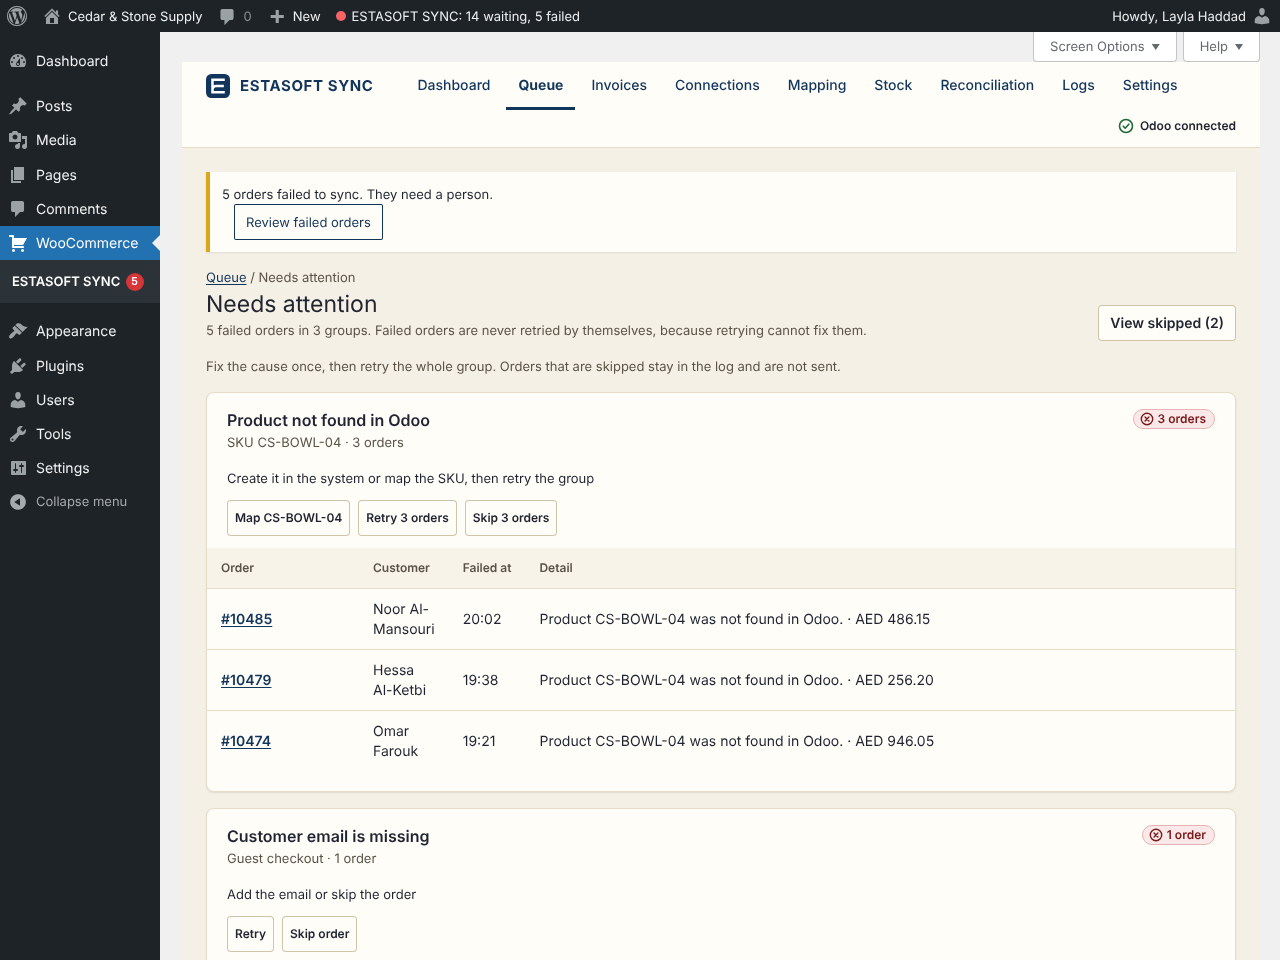
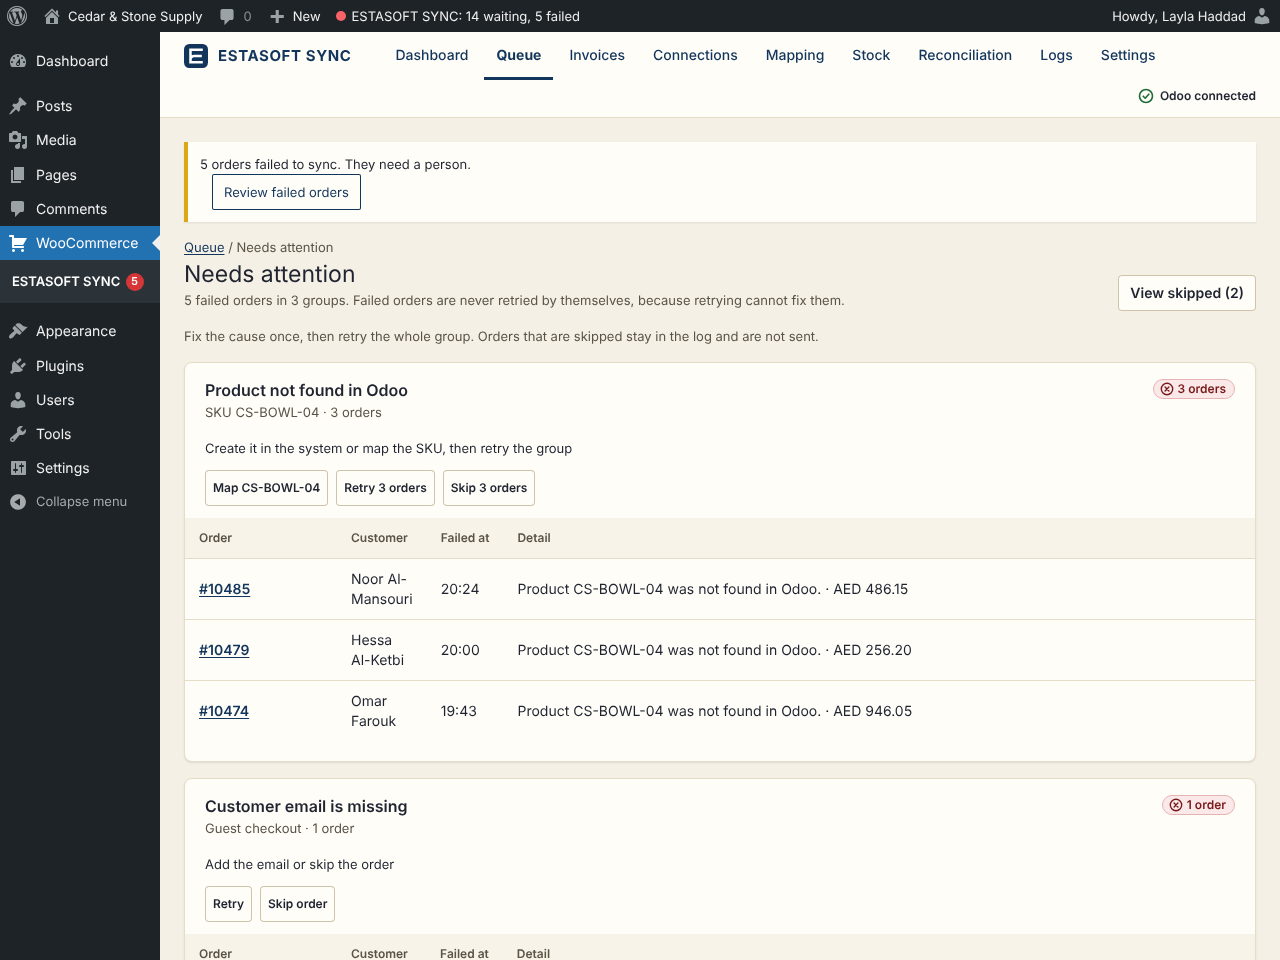
Prepare the 0.1.0 submission: retaken screenshots, WooCommerce 11.2 in the header, release notes and the submit-tonight page

diff --git a/estasoft-erp-crm-sync-engine.php b/estasoft-erp-crm-sync-engine.php
@@ -14,7 +14,7 @@
  * Text Domain:       estasoft-erp-crm-sync-engine
  * Domain Path:       /languages
  * WC requires at least: 8.2
- * WC tested up to:   9.4
+ * WC tested up to:   11.2
  *
  * @package Estasoft\SyncEngine
  */

diff --git a/docs/release/CHECKLIST.md b/docs/release/CHECKLIST.md
@@ -4,14 +4,14 @@ Steps in order. **Who** says whether tooling does it (and where) or the owner ha
 evidence named in it exists. The short list of what only the owner can do is [OWNER-ACTIONS.md](OWNER-ACTIONS.md).
 
 Legend: **Tooling** = a script or CI job in this repository does it. **Owner** = a person with the right account
-or authority has to do it. **Done** = already true on the day this file was last checked (2 Nov 2026).
+or authority has to do it. **Done** = already true on the day this file was last checked (6 Nov 2026).
 
 ## A. Repository set-up (once)
 
 | # | Step | Who | Status |
 | --- | --- | --- | --- |
 | A1 | The project documents are in the repository: `docs/spec/phase1-spec.md`, `docs/spec/review-2-changes.md`, `docs/DECISIONS.md`. `php bin/check-docs.php` checks the links and the index. | Owner / lead | **Done** |
-| A2 | Make the GitHub repository public (the readme's source-code link, guideline 4, needs it). | Owner | Open |
+| A2 | Make the GitHub repository public (the readme's source-code link, guideline 4, needs it). | Owner | **Done** |
 | A3 | Settings > Code security: turn on **private vulnerability reporting** (SECURITY.md and the issue-template links depend on it). | Owner | Open |
 | A4 | Settings > Environments: create **`wordpress-org`**, add the owner as **required reviewer** (this is the manual approval), and store **`SVN_USERNAME`** and **`SVN_PASSWORD`** as secrets of that environment. Use the WordPress.org account that is a committer of the plugin. | Owner | Open |
 | A5 | Settings > Branches: protect `main`, require the status check **CI passed** (the `ci-ok` job) and a pull request review. | Owner | Open |
@@ -40,7 +40,7 @@ or authority has to do it. **Done** = already true on the day this file was last
 | C2 | Try the built plugin on **WordPress 6.4** (the minimum) and the latest 7.x, PHP 8.1 and 8.4, with the real WooCommerce, HPOS on and off, with the classic and the block checkout. The smoke test proves the PHP side against a WooCommerce stand-in, and that the app's script handles exist on 6.4.3; the admin app runs at run time with the `@wordpress/*` packages WordPress ships, which on 6.4 are older than the ones it was compiled against, so open every admin screen on 6.4. | Owner / QA | Open |
 | C3 | Admin screens with a screen reader, at 200% zoom, on a phone and a tablet, in each admin colour scheme (the design status lists these as not checked). | Owner / QA | Open |
 | C4 | Re-read `readme.txt` (description, features, FAQ, External services) against the finished build: every sentence must be true. The External services entries are generated, so check the introduction and the links: open each address (the ones marked "not confirmed" at the end of [EXTERNAL-SERVICES.md](EXTERNAL-SERVICES.md) first). | Owner | Open |
-| C5 | Confirm **Tested up to** (now 7.1) is the current WordPress release the day you submit, and that the plugin header's `WC tested up to` is a current WooCommerce version. | Owner | Open |
+| C5 | Confirm **Tested up to** (now 7.1) is the current WordPress release the day you submit, and that the plugin header's `WC tested up to` (now 11.2) is a current WooCommerce version. | Owner | Checked 6 Nov 2026 (WordPress 7.1, WooCommerce 11.2) |
 | C6 | `php bin/check-readme.php` passes (checks the rules offline), then paste `readme.txt` into the **official validator**: <https://wordpress.org/plugins/developers/readme-validator/>. | Tooling, then Owner | Offline check **Done**; validator open |
 | C7 | **Licences.** The licences of the packages that are in the production dependency tree of `build/` are listed in [GUIDELINES-AUDIT.md](GUIDELINES-AUDIT.md) (guideline 1): all GPL-compatible, and none is inside the bundle. Confirm that Estasoft holds the rights to the icon and banner. | Owner | Licences **Done**; rights open |
 | C8 | **Source and bundle.** `build/index.asset.php` lists WordPress script handles for React and the `@wordpress` packages; the bundle contains no copy of React or jQuery and none of the mock layer (CI checks the mock, the smoke test checks the handles). | Tooling | **Done** |
@@ -54,7 +54,7 @@ or authority has to do it. **Done** = already true on the day this file was last
 | # | Step | Who | Status |
 | --- | --- | --- | --- |
 | D1 | Icon 128 and 256 px, banner 772 x 250 and 1544 x 500 px are in `.wordpress-org/`. | Tooling | **Done** |
-| D2 | Screenshots 1 to 6 are in `.wordpress-org/` (1280 wide PNG, sample shop; screenshot 3 retaken on 3 Nov 2026). Look at them once more against the final build ([ASSETS.md](ASSETS.md)). | Owner | Done |
+| D2 | Screenshots 1 to 6 are in `.wordpress-org/` (1280 wide PNG, sample shop, all retaken on 6 Nov 2026 from the final build). | Owner | **Done** ([ASSETS.md](ASSETS.md)) |
 | D3 | `php bin/check-readme.php --strict-assets` passes (it fails while any captioned screenshot is missing). | Tooling | **Done** |
 
 ## E. Version, tag and zip
@@ -62,7 +62,7 @@ or authority has to do it. **Done** = already true on the day this file was last
 | # | Step | Who | Status |
 | --- | --- | --- | --- |
 | E1 | For a version after 0.1.0: `bin/bump-version.sh <x.y.z>`, then write the real notes in `CHANGELOG.md` and `readme.txt` (changelog and upgrade notice). The placeholder text blocks the build on purpose. | Owner / lead | Per release |
-| E2 | For 0.1.0: replace `Unreleased` in the CHANGELOG heading with the release date. | Owner / lead | Open |
+| E2 | For 0.1.0: replace `Unreleased` in the CHANGELOG heading with the release date. | Owner / lead | **Done** (2026-11-06) |
 | E3 | `bin/build-zip.sh` passes locally: versions agree, readme valid, only runtime files in the zip, every PHP file guarded, header and text domain correct. Inspect the printed file list and size. | Tooling | **Done**: a full build ran as part of the smoke test ([SMOKE-TEST.md](SMOKE-TEST.md) gives the file count, size and SHA-256) |
 | E4 | Merge to `main`, wait for CI, then create the tag **`v<version>`** on that commit. The release workflow refuses a tag that is not on `main` or that differs from the plugin version. | Owner | Open |
 
@@ -77,7 +77,7 @@ or authority has to do it. **Done** = already true on the day this file was last
 | F5 | Check the plugin page: name, banner at both sizes, icon, screenshots and captions, tabs, changelog, upgrade notice, "Requires Plugins" box. Install it from the directory on a clean site with WooCommerce and run the setup. | Owner | After deploy |
 | F6 | Watch the support forum. Fix cycle: change, `bin/check-all.sh`, bump, tag, approve. Avoid frequent commits to SVN (guideline 14): one deploy per release. | Owner | Ongoing |
 
-## What was verified when this file was last checked (2 Nov 2026)
+## What was verified when this file was last checked (6 Nov 2026)
 
 - `php bin/red-flags.php`, `php bin/check-php-version.php`, `php bin/check-readme.php --strict-assets`,
   `php bin/check-docs.php`, `bash bin/check-dist-parity.sh`, the three `--check` generators, and `actionlint` on the
@@ -85,5 +85,7 @@ or authority has to do it. **Done** = already true on the day this file was last
   Composer and in CI; results in [PLUGIN-CHECK-NOTES.md](PLUGIN-CHECK-NOTES.md).
 - `bash bin/smoke-install.sh`: the release zip was built with `npm ci` and `npm run build`, unpacked into a fresh
   WordPress 6.4.3 and exercised ([SMOKE-TEST.md](SMOKE-TEST.md)).
-- **Not verified here (no network and no GitHub):** any GitHub Actions run, the real Plugin Check, the readme
-  validator, the deployment, `composer install`, the real WooCommerce, and any vendor account.
+- GitHub Actions on `main`: CI, Plugin Check and `woocommerce-smoke.yml` (the real WooCommerce 11.2.2 on WordPress
+  7.1.4, posts and HPOS storage).
+- **Not verified:** the readme validator on wordpress.org, the deployment, a real checkout in a browser, and any
+  vendor account.

diff --git a/docs/release/SUBMIT-TONIGHT.md b/docs/release/SUBMIT-TONIGHT.md
@@ -1,0 +1,54 @@
+# Submit tonight
+
+The short version of [OWNER-ACTIONS.md](OWNER-ACTIONS.md) for the evening of submission. Written 6 Nov 2026 for
+version 0.1.0. Everything that a script or a GitHub workflow can check has been checked; these are the steps that
+need the owner's accounts.
+
+## State of the build (6 Nov 2026)
+
+- `main` on GitHub is the source of the zip. CI (lint, PHPCS, PHPStan, unit and integration tests, admin app
+  checks, generated files, zip build), Plugin Check and the real-WooCommerce smoke test run on every push.
+- The plugin ships no logos: no vendor logo and no Estasoft logo image inside the zip. The WordPress.org icon and
+  banner are in `.wordpress-org/` and are not part of the zip.
+- Not tried: any connector against a live vendor account (the readme and the setup screen say so), and a real
+  checkout in a browser.
+
+## Before you upload (10 minutes)
+
+1. **Check the plugin name and slug.** WordPress.org builds the permalink from the plugin name, so it may offer
+   `estasoft-enterprise-erp-crm-sync-engine` rather than the text domain and folder name
+   `estasoft-erp-crm-sync-engine`. If the review email proposes the longer one, reply that you want
+   `estasoft-erp-crm-sync-engine` so the slug matches the text domain; if they insist on the other one, the text
+   domain and folder name must be changed to match before approval.
+2. **Check the account.** Sign in at <https://wordpress.org/> with the account that will own the plugin. Turn on
+   two-factor authentication (Profile > Account & Security). Check that `Contributors: estasofttechnologies` in
+   `readme.txt` is exactly that account's username; change `readme.txt` and rebuild the zip if it is not.
+3. **Read the zip's readme once in the validator.** Paste `readme.txt` into
+   <https://wordpress.org/plugins/developers/readme-validator/> and read the result. The offline check
+   (`php bin/check-readme.php --strict-assets`) already passes, so anything new the validator reports is worth a look.
+
+## Upload
+
+4. Open <https://wordpress.org/plugins/developers/add/>, upload the file
+   `estasoft-erp-crm-sync-engine-0.1.0.zip`, tick the confirmations and submit.
+5. An automatic check runs at once and a person from the Plugin Review team writes to the account's email address
+   (not at once). Reply in the same thread. The text to paste is in [SUBMISSION-NOTES.md](SUBMISSION-NOTES.md),
+   sections 1 to 8 for the description and section 9 for how a reviewer can test it without a paid ERP.
+6. Do **not** push the tag `v0.1.0` yet. The release workflow publishes to WordPress.org subversion and needs the
+   `wordpress-org` environment (required reviewer, secrets `SVN_USERNAME` and `SVN_PASSWORD`), which can only exist
+   after approval. Create it then ([CHECKLIST.md](CHECKLIST.md), A4 and F4).
+
+## Do these next, any day this week
+
+- Settings > Code security: turn on **private vulnerability reporting** (SECURITY.md and the issue templates link to
+  it) and protect `main` with the `CI passed` check.
+- Try the plugin on a real shop: a real checkout (classic and block), every admin screen on WordPress 6.4, a screen
+  reader and 200% zoom.
+- Live-test the connectors your first customers use (Odoo first, see SUBMISSION-NOTES section 9, path B), then set
+  `verified: true` for each in `docs/connectors/<id>.md`.
+
+## If the review team asks for changes
+
+Fix on a branch, run `bash bin/check-all.sh`, merge to `main`, rebuild with `bash bin/build-zip.sh` and upload the
+new zip as they instruct. Keep the version at 0.1.0 unless they ask for a bump; if you bump, use
+`bin/bump-version.sh` so the header, constant, readme and package agree.

diff --git a/docs/release/OWNER-ACTIONS.md b/docs/release/OWNER-ACTIONS.md
@@ -1,12 +1,12 @@
 # What only the owner can do
 
 Everything else is in the repository and checked by a script. The full ordered list is
-[CHECKLIST.md](CHECKLIST.md); this page is the short version. Written 2 Nov 2026.
+[CHECKLIST.md](CHECKLIST.md); this page is the short version. Updated 6 Nov 2026. For the evening of submission use [SUBMIT-TONIGHT.md](SUBMIT-TONIGHT.md).
 
 ## Before the first submission
 
-1. **Make the GitHub repository public.** The readme's source-code link (guideline 4) is dead until it is. Turn on
-   private vulnerability reporting (Settings > Code security) and protect `main` with the `CI passed` check.
+1. **GitHub.** The repository is public (done), so the readme's source-code link works. Still to do: turn on private
+   vulnerability reporting (Settings > Code security) and protect `main` with the `CI passed` check.
 2. **Check that the slug is free.** Open <https://wordpress.org/plugins/estasoft-erp-crm-sync-engine/>: "not found"
    means free. Search the directory for plugins with a similar name.
 3. **Run the gate once on GitHub and read it.** Push, wait for CI, then read the job summaries of **Plugin Check**
@@ -14,8 +14,8 @@ Everything else is in the repository and checked by a script. The full ordered l
    of the **smoke** job. Commit `composer.lock` and `package-lock.json` first. When the smoke job has passed once,
    add it to the `needs` of the `ci-ok` job.
 4. **Confirm the dates and versions on the day:** `Tested up to` in `readme.txt` is the current WordPress release,
-   `WC tested up to` in the plugin header is a current WooCommerce, and the heading `## [0.1.0] - Unreleased` in
-   `CHANGELOG.md` gets the release date.
+   `WC tested up to` in the plugin header (now 11.2) is a current WooCommerce. The `CHANGELOG.md` heading already
+   carries the date 2026-11-06; change it if you submit on another day.
 5. **Paste `readme.txt` into the official validator**
    (<https://wordpress.org/plugins/developers/readme-validator/>) and read the External services section as a
    reviewer would.
@@ -26,11 +26,12 @@ Everything else is in the repository and checked by a script. The full ordered l
 7. **Confirm the rights to the artwork:** Estasoft holds the rights to the icon and banner in `.wordpress-org/`
    (they are not in the zip). Real vendor logos are used **only with each vendor's written permission**; the plugin
    ships none.
-8. **Look at the screenshots again** against the final screens (screenshot 3, Choose a system, was retaken on
-   3 Nov 2026; [ASSETS.md](ASSETS.md)).
-9. **Test on a real shop**, because the install test used a WooCommerce stand-in: WordPress 6.4 and the latest 7.x,
-   PHP 8.1 and 8.4, HPOS on and off, classic and block checkout, every admin screen on 6.4 (older
-   `@wordpress/*` packages), a screen reader, 200% zoom and a phone.
+8. **Look at the screenshots again** against the final screens (all six were retaken on 6 Nov 2026 from the final
+   build, without vendor logos; [ASSETS.md](ASSETS.md)).
+9. **Test on a real shop.** Done in CI: the real WooCommerce 11.2.2 on WordPress 7.1.4 with programmatic orders and
+   refunds, posts storage and HPOS (`woocommerce-smoke.yml`). Not done: a real checkout in the browser (classic and
+   block), every admin screen on WordPress 6.4 (older `@wordpress/*` packages), PHP 8.1 and 8.4 on a real shop,
+   a screen reader, 200% zoom and a phone.
 10. **Create the translation template** once: `bin/make-pot.sh` needs WP-CLI; commit
     `languages/estasoft-erp-crm-sync-engine.pot`.
 

diff --git a/docs/release/ASSETS.md b/docs/release/ASSETS.md
@@ -34,14 +34,14 @@ Rules that WordPress.org enforces or reviewers check:
 | --- | --- |
 | `icon-128x128.png`, `icon-256x256.png` | A white "E" with a notch on a navy rounded square (the Estasoft mark). PNG with transparent corners. |
 | `banner-1544x500.png`, `banner-772x250.png` | Sand background on the left with the full official name in navy, the line "Keep WooCommerce in step with your ERP, accounting system or CRM. Checkout never waits.", and "Orders, customers, stock, tracking"; a navy panel on the right with an illustrative dashboard card (312 synced today, 14 waiting, 5 need a person, and a short list of orders with their states). The orders are invented (#10494 and so on): it is artwork, not a claim about real results. No vendor logo, no price. |
-| `screenshot-1.png` to `screenshot-6.png` | 1280 wide PNG (screenshot 3 is 1280 x 1160, 225 KB; the others 1280 x 960, 98 to 131 KB). Taken in a browser from the plugin inside WordPress 6.4.3 with the sample shop "Cedar & Stone Supply" (design board S03), default admin colours, the admin menu visible. The Connection card on screenshot 1 shows a sample address. |
+| `screenshot-1.png` to `screenshot-6.png` | 1280 wide PNG (screenshot 3 is 1280 x 1160, 249 KB; the others 1280 x 960, 156 to 210 KB). Taken in a browser from the plugin inside WordPress 6.4.3 with the sample shop "Cedar & Stone Supply" (design board S03), default admin colours, the admin menu visible. The Connection card on screenshot 1 shows a sample address. |
 
 Rights to the artwork: the icon is the Estasoft E from the owner's own brand file; the owner confirms that Estasoft
 holds the rights to the icon and banner before submission ([OWNER-ACTIONS.md](OWNER-ACTIONS.md), item 7).
 
 ## Screenshots and their captions
 
-The captions in `readme.txt` match these files (looked at on 2 Nov 2026).
+The captions in `readme.txt` match these files (retaken and looked at on 6 Nov 2026).
 
 | No. | Caption in `readme.txt` | What the image shows |
 | --- | --- | --- |
@@ -52,9 +52,8 @@ The captions in `readme.txt` match these files (looked at on 2 Nov 2026).
 | 5 | Reconciliation: a nightly check lists every order that differs between WooCommerce and your system, ready to repair. | Reconciliation: last check, compared, match and differences, and three differences with Repair and Ignore buttons. |
 | 6 | Settings: email notifications, performance, access and a readiness check, with no usage tracking. | Settings, Notifications tab, with the line "This plugin has no usage tracking and talks only to the system you connect, and only after you set it up." |
 
-Screenshot 3 was retaken on 3 Nov 2026 from the build with the 34-system Choose a system screen (the method line, the
-"Not yet tested" tag and the reason on a system that cannot be selected). The others still match the screens; look at
-them once more against the final build.
+All six screenshots were retaken on 6 Nov 2026 from the final build: full width, no WordPress Help or Screen Options
+buttons, no vendor logos (the plugin ships none).
 
 If a final screen differs from its caption, change the caption in `readme.txt` (keep the numbering) rather than the
 other way round, then run `php bin/check-readme.php --strict-assets`.

diff --git a/docs/release/SUBMISSION-NOTES.md b/docs/release/SUBMISSION-NOTES.md
@@ -3,7 +3,7 @@
 Text the owner pastes into the WordPress.org submission and into replies to the Plugin Review team. Each block
 between the lines is ready to paste. Check every statement against the finished build first (see
 [CHECKLIST.md](CHECKLIST.md), step C4), and change this file when the plugin changes. Last checked against the tree
-on 2 Nov 2026 (version 0.1.0).
+on 6 Nov 2026 (version 0.1.0).
 
 ## 1. Summary
 
@@ -88,6 +88,10 @@ to use Shadow mode first.
   `Idempotency-Key` header.
 - **Shadow mode.** The same process runs without changing anything in either system, so a merchant can compare the
   result before going live.
+- **What leaves the shop is the merchant's choice.** In setup the merchant says whether orders are sent at all, when
+  (when placed, when paid or cash on delivery, or when completed) and whether refunds are sent; the order hooks
+  follow those answers. The same step can switch stock and tracking read-back on at go-live. The setup screen says
+  which other answers are only saved for now.
 - **No tax signing.** The plugin never signs, issues or certifies a tax invoice. The connected system does that.
 
 ---
@@ -172,7 +176,8 @@ There is no demo mode and no sample connector. A reviewer needs no paid ERP. Pic
 
 ---
 
-1. Use WordPress 6.4 or later, PHP 8.1 or later (sodium is part of PHP), and WooCommerce active. Nothing has to be added
+1. Use WordPress 6.4 or later (the current WooCommerce itself needs WordPress 7.0 or later, so use 7.x with the newest
+   WooCommerce), PHP 8.1 or later (sodium is part of PHP), and WooCommerce active. Nothing has to be added
    to `wp-config.php`: the WordPress security keys encrypt the credentials. To try the dedicated key, add
    `define( 'ESTASOFT_SYNC_KEY', 'any long random string of 32 or more characters' );`
 2. Activate the plugin. Open WooCommerce > ESTASOFT SYNC: the first-run dashboard, the readiness check
@@ -246,7 +251,9 @@ smoke test for its system. The plugin's own tests run each connector against a f
 - **The plugin is English only.** Strings use the text domain `estasoft-erp-crm-sync-engine`; a `.pot` file is
   generated with `bin/make-pot.sh`.
 - **Local checks.** The release zip is installed into a fresh WordPress with `bin/smoke-install.sh`
-  ([SMOKE-TEST.md](SMOKE-TEST.md)). Plugin Check itself ran only on GitHub; what was approximated is in
+  ([SMOKE-TEST.md](SMOKE-TEST.md)). The workflow `woocommerce-smoke.yml` installs the real WooCommerce (11.2.2 at the
+  last run) into WordPress 7.1.4 with PHP 8.2, places real orders and refunds, and checks the queue rows, with
+  posts storage and with HPOS. Plugin Check itself ran only on GitHub; what was approximated is in
   [PLUGIN-CHECK-NOTES.md](PLUGIN-CHECK-NOTES.md).
 
 ---

diff --git a/CHANGELOG.md b/CHANGELOG.md
@@ -9,9 +9,7 @@ Releases are prepared with `bin/bump-version.sh`, which moves the notes under [U
 
 ## [Unreleased]
 
-## [0.1.0] - Unreleased
-
-<!-- Replace "Unreleased" in the heading above with the release date when the tag is created. -->
+## [0.1.0] - 2026-11-06
 
 First release.
 
@@ -47,6 +45,9 @@ First release.
   invoices, connections, mapping, stock, reconciliation, logs and settings.
 - WooCommerce integration: declared compatible with high-performance order storage and the block checkout; order
   box, Sync column on the orders list, product box.
+- The "what to sync" step of setup takes effect for three things: whether orders and refunds are sent, when an order is
+  first sent (paid or cash on delivery, placed, or completed), and whether stock and tracking are switched on at go-live.
+  The step says that its other choices are saved but do not change anything yet.
 - Credentials encrypted with libsodium. The key is derived from the WordPress security keys in `wp-config.php`, or is
   the constant `ESTASOFT_SYNC_KEY` when you add one (credentials saved before the constant was added stay readable); secrets are never
   returned by the REST API or written to logs.
@@ -59,7 +60,8 @@ First release.
 - WordPress.org submission material: an External services section in `readme.txt` for every service the plugin
   can contact, generated from the connector documents (`bin/generate-external-services.php`), the guideline audit,
   Plugin Check notes, and an install test of the release zip (`bin/smoke-install.sh`).
-- Repository tooling: CI on PHP 8.1 to 8.4 and two WordPress versions, Plugin Check, release workflow with a
+- Repository tooling: CI on PHP 8.1 to 8.4 and two WordPress versions, Plugin Check, a smoke test that makes real orders and
+  refunds in the current WooCommerce with both order storages, release workflow with a
   manual approval before WordPress.org, and scripts to build and verify the release zip.
 
 [Unreleased]: https://github.com/estasofttechnologies/estasoft-enterprise-erp-crm-sync-engine/compare/v0.1.0...HEAD

diff --git a/docs/spec/README.md b/docs/spec/README.md
@@ -60,6 +60,7 @@ Community and the "about 8 official connectors" cap (decisions), section 3 (phas
 | [../release/PLUGIN-CHECK-NOTES.md](../release/PLUGIN-CHECK-NOTES.md) | What the Plugin Check categories were approximated with, the result of each, and what only the real Plugin Check can verify. |
 | [../release/SMOKE-TEST.md](../release/SMOKE-TEST.md) | Result of installing the release zip into a fresh WordPress and exercising it (written by `bin/smoke-install.sh`). |
 | [../release/OWNER-ACTIONS.md](../release/OWNER-ACTIONS.md) | The short list of what only the owner can do before and after submission. |
+| [../release/SUBMIT-TONIGHT.md](../release/SUBMIT-TONIGHT.md) | The evening-of-submission page: state of the build, the owner's steps, and what to do after upload. |
 
 ## Keeping this folder honest
 
